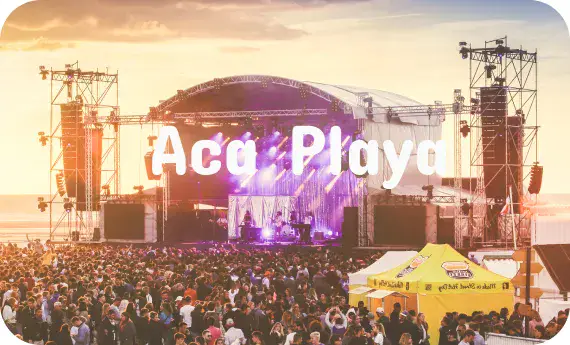
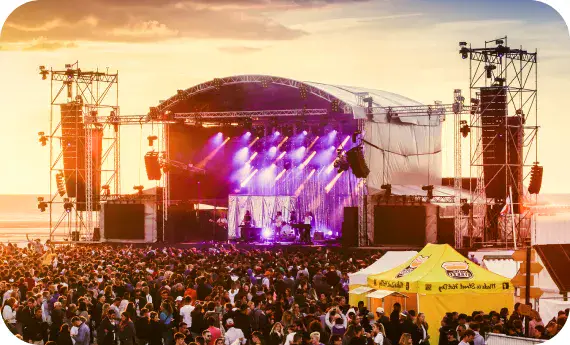
Ajout des images et du contenu de la page festival

diff --git a/src/pages/Festival.vue b/src/pages/Festival.vue
@@ -3,7 +3,9 @@
         <Header class="z-10 relative"/>
     </header>
     <main>
-    <img class="-mt-[85px] max-h-[812px] min-h-[805px] opacity-80 w-full object-cover" src="../../public/images/festi_fond.webp" alt="">
+    <img class="-mt-[85px] relative max-h-[812px] min-h-[805px] opacity-80 w-full object-cover" src="../../public/images/festi_fond.webp" alt="">
+    <h1 class="absolute ml-8 -mt-[600px] text-5xl font-concert-one text-Extended/true-gray/50">Acapul'co</h1>
+    <h2 class="absolute ml-[214px] -mt-[500px] text-3xl font-concert-one text-Extended/true-gray/50">Festival</h2>
     <div class="mt-7 mx-7 font-lato text-xs text-Extended/true-gray/50">
         <p>Acapul’co est un Festival situé dans le département de l’Aude est plus précisement dans le petit village de Gruissan.</p>
         <p class="mt-4"> C’est un festival de musique principalement de l’éléctro avec des dj qui viennent du monde entier spécialement pour vous ! </p>
@@ -26,11 +28,59 @@
    </div>
    <h2 class="mt-10 ml-7 font-lato text-sm text-Extended/true-gray/50 font-bold">Deux grandes scènes</h2>
    <div class="mt-3 flex justify-center">
-    <img class="rounded-[40px] w-[312px] h-[189px] object-cover" src="../../public/images/festi_pulcoplaya.webp" alt="">
+    <img class="relative rounded-[40px] w-[312px] h-[189px] opacity-80 object-cover" src="../../public/images/festi_pulcoplaya.webp" alt="">
+    <p class= "absolute my-16 text-4xl font-concert-one text-Extended/true-gray/50">Pulco Playa</p>
    </div>
    <div class="mt-3 flex justify-center">
-    <img class="rounded-[40px] w-[312px] h-[189px] object-cover" src="../../public/images/festi_acaplaya.webp" alt="">
+    <img class="relative rounded-[40px] w-[312px] h-[189px] opacity-80 object-cover" src="../../public/images/festi_acaplaya.webp" alt="">
+     <p class= "absolute my-16 text-4xl font-concert-one text-Extended/true-gray/50">Aca Playa</p>
    </div>
+   <h2 class="mt-10 ml-7 font-lato text-sm text-Extended/true-gray/50 font-bold">Retour en images</h2>
+   <h4 class="mt-5 ml-7 font-concert-one text-sm text-Extended/amber/300 font-bold">Summer</h4>
+    <div class=" mt-2 w-full flex gap-0 snap-x overflow-x-auto">
+        <div class="snap-center shrink-0 first:pl-5 last:pr-5">
+              <img class="w-full object-cover" src="../../public/images/festi_sum1.webp" alt="">  
+        </div>
+        <div class="snap-center shrink-0 first:pl-5 last:pr-5">
+              <img class="w-full object-cover" src="../../public/images/festi_sum2.webp" alt="">  
+        </div>
+        <div class="snap-center shrink-0 first:pl-5 last:pr-5">
+              <img class="w-full object-cover" src="../../public/images/festi_sum3.webp" alt="">  
+        </div>
+        <div class="snap-center shrink-0 first:pl-5 last:pr-5">
+              <img class="w-full object-cover" src="../../public/images/festi_sum4.webp" alt="">  
+        </div>
+        <div class="snap-center shrink-0 first:pl-5 last:pr-5">
+              <img class="w-full object-cover" src="../../public/images/festi_sum5.webp" alt="">  
+        </div>
+        <div class="snap-center shrink-0 first:pl-5 last:pr-5">
+              <img class="w-full object-cover" src="../../public/images/festi_sum6.webp" alt="">  
+        </div>
+    </div>
+    <h4 class="mt-5 ml-7 font-concert-one text-sm text-Extended/amber/300 font-bold">Night</h4>
+    <div class=" mt-2 w-full flex gap-0 snap-x overflow-x-auto">
+        <div class="snap-center shrink-0 first:pl-5 last:pr-5">
+              <img class="w-full object-cover" src="../../public/images/festi_night1.webp" alt="">  
+        </div>
+        <div class="snap-center shrink-0 first:pl-5 last:pr-5">
+              <img class="w-full object-cover" src="../../public/images/festi_night2.webp" alt="">  
+        </div>
+        <div class="snap-center shrink-0 first:pl-5 last:pr-5">
+              <img class="w-full object-cover" src="../../public/images/festi_night3.webp" alt="">  
+        </div>
+    </div>
+    <h4 class="mt-5 ml-7 font-concert-one text-sm text-Extended/amber/300 font-bold">Fireworks</h4>
+    <div class=" mt-2 pb-5 w-full flex gap-0 snap-x overflow-x-auto">
+        <div class="snap-center shrink-0 first:pl-5 last:pr-5">
+              <img class="w-full object-cover" src="../../public/images/festi_fire1.webp" alt="">  
+        </div>
+        <div class="snap-center shrink-0 first:pl-5 last:pr-5">
+              <img class="w-full object-cover" src="../../public/images/festi_fire2.webp" alt="">  
+        </div>
+        <div class="snap-center shrink-0 first:pl-5 last:pr-5">
+              <img class="w-full object-cover" src="../../public/images/festi_fire3.webp" alt="">  
+        </div>
+    </div>
     </main>
     <footer>
         <Footer/>
